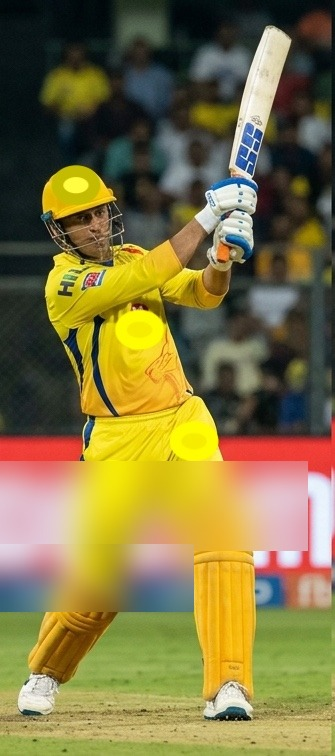
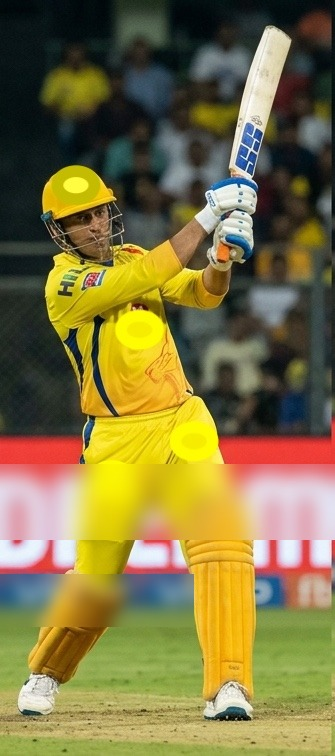
Old_Indian: recalibrate blurs, add C1-C4, wire Victory/OUT into modal
Blur recalibration (user feedback: original patches were too large and
visually disruptive): redone with tight boxes sized to the actual
logo/text pixels instead of generous padding/full-width bands, and a
lighter mosaic factor. Affects the same 6 images from the previous
pass (Celebrate5/7/8/10/11/12_6.jpg). Verified at normal display size
this time, not just zoomed crops -- a mosaic pattern of high-contrast
pixels can look like leftover text under 2-3x zoom even when the
actual word is destroyed at real size; confirmed with a pixel-diff
against the original before trusting a "still looks wrong" zoomed read.

C1-C4: four more user-supplied celebration images reviewed. C1/C3
clean. C2 (Kingfisher logo) and C4 (TATA logo) fixed with tight boxes
applied precisely from the start. All four added to CELEBRATION_IMAGES
-- pool is now 17.

Victory.jpg/OUT.jpg wired into showEndGameModal() via a new
#modal-outcome-photo element: checkmate win or a perfect score shows
Victory.jpg; checkmate loss shows OUT.jpg; every other ending shows
neither. Verified both paths on fresh page loads via direct FEN
injection (Fool's Mate / Scholar's Mate) -- an earlier same-session
test showed the loss path incorrectly returning Victory.jpg, traced to
a test race condition (reused state across a new-game click, not
a real app bug) and confirmed clean on an isolated fresh load.

Left "Gemini_Generated_Image_mw1elt...copy 4.jpg" (appeared in
[…]

Changed region(s): [[0.0, 0.6085, 0.3582, 0.8519], [0.6269, 0.6085, 1.0, 0.7302], [0.3284, 0.6693, 0.6269, 0.8214]]

diff --git a/Desktop/ClaudeCode/Chess_Games/Old_Indian/app.js b/Desktop/ClaudeCode/Chess_Games/Old_Indian/app.js
@@ -856,7 +856,11 @@ const CELEBRATION_IMAGES = [
     'six-celebrations/Celebrate12_6.jpg',
     'six-celebrations/Celebrate13_6.jpg',
     'six-celebrations/Celebrate14_6.jpg',
-    'six-celebrations/Celebrate15_6.jpg'
+    'six-celebrations/Celebrate15_6.jpg',
+    'six-celebrations/C1.jpg',
+    'six-celebrations/C2.jpg',
+    'six-celebrations/C3.jpg',
+    'six-celebrations/C4.jpg'
 ];
 
 let celebrationPool = [];
@@ -1470,6 +1474,24 @@ async function showEndGameModal() {
     const isNew = saveHighScore(score);
 
     document.getElementById('modal-title').textContent = MODAL_TITLES[gameEndReason] || MODAL_TITLES.moves;
+
+    // Outcome photo: Victory.jpg on a checkmate win or a perfect score,
+    // OUT.jpg on a checkmate loss. Silent on every other ending (draw, or
+    // just running out of moves without either) — no image is shown.
+    const photoEl = document.getElementById('modal-outcome-photo');
+    let outcomePhoto = null;
+    if (gameEndReason === 'checkmate-black-wins' || score === TARGET_SCORE) {
+        outcomePhoto = 'Victory.jpg';
+    } else if (gameEndReason === 'checkmate-white-wins') {
+        outcomePhoto = 'OUT.jpg';
+    }
+    if (outcomePhoto) {
+        photoEl.src = outcomePhoto;
+        photoEl.alt = outcomePhoto === 'Victory.jpg' ? 'Victory!' : 'Out!';
+        photoEl.style.display = 'block';
+    } else {
+        photoEl.style.display = 'none';
+    }
 
     // Fair rating for an early-ended game (checkmate/draw before move 30):
     // percentage of the points actually possible in the moves played, not

diff --git a/Desktop/ClaudeCode/Chess_Games/Old_Indian/styles.css b/Desktop/ClaudeCode/Chess_Games/Old_Indian/styles.css
@@ -627,6 +627,12 @@ header h1 {
 }
 
 .modal-content h2 { font-family:'Rajdhani',sans-serif; font-weight: 800; font-size:1.7rem; letter-spacing: 1.5px; text-transform: uppercase; color:var(--gold); margin-bottom:12px; text-shadow: 0 0 16px rgba(255,201,74,0.4); }
+.modal-outcome-photo {
+    display: block; width: 100%; max-height: 200px; object-fit: cover;
+    border-radius: 8px; margin-bottom: 14px;
+    border: 1px solid rgba(255,201,74,0.4);
+    box-shadow: 0 8px 24px rgba(0,0,0,0.4);
+}
 #modal-score { font-family:'Share Tech Mono',monospace; font-size:1.5rem; color:var(--gold); margin-bottom:8px; }
 #modal-rating { font-size:0.94rem; color:#cdeee9; margin-bottom:14px; line-height:1.55; }
 #modal-highscore-msg { font-family:'Rajdhani',sans-serif; font-weight: 700; color:var(--gold); font-size:0.88rem; letter-spacing: 1px; margin-bottom:10px; }

diff --git a/Desktop/ClaudeCode/Chess_Games/Old_Indian/index.html b/Desktop/ClaudeCode/Chess_Games/Old_Indian/index.html
@@ -307,6 +307,7 @@
         <div class="modal" id="game-over-modal">
             <div class="modal-content">
                 <h2 id="modal-title">Wedstryd Verby!</h2>
+                <img id="modal-outcome-photo" class="modal-outcome-photo" src="" alt="" style="display:none;">
                 <p id="modal-score"></p>
                 <p id="modal-rating"></p>
                 <p id="modal-highscore-msg" style="display: none;"></p>

diff --git a/Desktop/ClaudeCode/Chess_Games/Old_Indian/CLAUDE.md b/Desktop/ClaudeCode/Chess_Games/Old_Indian/CLAUDE.md
@@ -557,3 +557,41 @@ Web Audio API, no external sound file: same "original assets only" approach as e
 in this app, and it means there's no audio-licensing question to even ask). The shutter call is
 wrapped in try/catch since some browsers block `AudioContext` without a prior user gesture — the
 visual flash still plays either way, so a blocked sound never breaks the moment.
+
+---
+
+## 15. Blur Recalibration, C1–C4, Victory/OUT Wiring (2026-08-21)
+
+### The first blur pass was too heavy-handed — user feedback, corrected
+The six images fixed in §14 were blurred with generously-oversized boxes (large margins, full
+chest/sleeve "bands" instead of tight boxes around just the badge) — safe, but visually
+disruptive; the user pushed back directly: *"these ruin the pictures at the moment."* Redone
+with tight boxes sized to the actual logo/text pixels (a few percent of margin, not generous
+padding), and a lighter mosaic factor (8 instead of 10) so the patches read as small soft-focus
+spots rather than large flat blocks. **Verify at normal display size, not just zoomed crops** —
+a mosaic pattern of high-contrast pixels (e.g. white text on a red sponsor board) can look like
+it's "still showing letters" under a 2–3x zoom purely from the block-averaging pattern, even
+when the actual word is destroyed and unreadable at real size. Confirmed this with a direct
+pixel-diff between the original and the output (every sampled pixel across the "suspicious" band
+had changed) before trusting the visual read. Lesson: tight boxes first, verify at real size,
+zoom in only to locate a gap — don't let a zoomed-in artifact talk you into re-inflating the box.
+
+### C1–C4 reviewed and added to the pool
+Four more user-supplied images (`six-celebrations/C1.jpg`–`C4.jpg`). `C1` and `C3` were clean
+(correct "D6 Dynamos" branding or fully generic). `C2` had a real **Kingfisher** logo/wordmark
+on the boundary hoarding; `C4` had a real **TATA** logo — both fixed with the same tight-box
+approach, applied precisely from the start this time rather than needing a correction round.
+All four added to `CELEBRATION_IMAGES` in `app.js` — the pool is now 17 images.
+
+### Victory.jpg / OUT.jpg wired into the game-over modal
+`showEndGameModal()` now sets a `#modal-outcome-photo` `<img>` based on `gameEndReason` (and
+`score === TARGET_SCORE` for a perfect-game win even without a checkmate finish):
+`checkmate-black-wins` (or a perfect score) → `Victory.jpg`; `checkmate-white-wins` →
+`OUT.jpg`; every other ending (running out of moves without either, or a draw) shows no photo.
+Verified on fresh page loads for both outcomes via direct FEN injection (Fool's Mate for the
+win path, Scholar's Mate for the loss path) — an earlier combined single-session test showed
+the loss path incorrectly returning `Victory.jpg`, which turned out to be a **test race
+condition** (reusing page state across a `#modal-new-game` click without waiting for `newGame()`'s
+async chain to fully settle), not a real bug — confirmed by re-running the same check on a clean
+page load, where it passed correctly. Worth remembering: when a same-session before/after test
+gives a surprising result, try it isolated on a fresh page before concluding the app is wrong.
